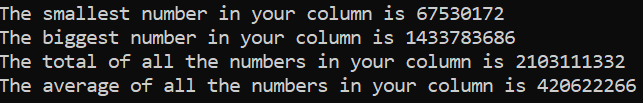
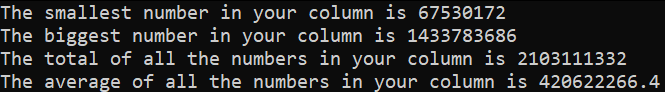
switched to using floating point division for avg

diff --git a/MinMaxNumber/MinMaxNumber.cpp b/MinMaxNumber/MinMaxNumber.cpp
@@ -93,13 +93,14 @@ int main(int argc, char** argv)
     // Find smallest and biggest numbers in numList
     int64_t smallest = INT64_MAX;
     int64_t biggest = NULL;
+    int64_t sum = NULL;
     for (std::vector<int64_t>::size_type i = 0; i < numList.size(); i++)
     {
         smallest = std::min(smallest, numList[i]);
         biggest = std::max(biggest, numList[i]);
+        sum += numList[i];
     }
-    int64_t sum = std::accumulate(numList.begin(), numList.end(), (int64_t)0);
-    std::vector<int64_t>::size_type avg = sum / numList.size();
+    double avg = (double)sum / numList.size();
 
     // Output results
     if (!smallest && !biggest && !avg && !sum)
@@ -118,7 +119,14 @@ int main(int argc, char** argv)
     std::cout << "The total of all the numbers in your column is ";
     std::cout << sum << '\n';
     std::cout << "The average of all the numbers in your column is ";
-    std::cout << avg << '\n';
+    
+    std::string strAvg = std::to_string(avg);
+    strAvg = strAvg.substr(0, strAvg.find_last_not_of('0')+1);
+    if(strAvg.find('.') == strAvg.size()-1)
+    {
+        strAvg = strAvg.substr(0, strAvg.size()-1);
+    }
+    std::cout << strAvg << '\n';
 
     return EXIT_SUCCESS;
 }

diff --git a/README.md b/README.md
@@ -108,28 +108,23 @@ Back in the main file we call the *SQLConnect* function, which is a boolean func
 
 Back in main we create a vector to store the list of numbers returned by SQLHandler function `FetchColumns`. The numbers in the provided column is accessed by issuing the SQL statment: `SELECT column FROM table`, where column and table are replaced with the actual names. This query is issued by the `executeQuery` MySQL Connector function. Once all the numbers in the specified column have been recorded they are returned to main.
 
-#### 4 (i, ii).
+#### 4 (i, ii, iii, iv).
 ```cpp
 int64_t smallest = INT64_MAX;
 int64_t biggest = NULL;
+int64_t sum = NULL;
 for (int i = 0; i < numList.size(); i++)
 {
     smallest = std::min(smallest, numList[i]);
     biggest = std::max(biggest, numList[i]);
+    sum += numList[i];
 }
+double avg = (double)sum / numList.size();
 ```
-To find the smallest and biggest numbers in the column we make use of the built in C++ functions `min` and `max`. Counterintuitively, we initally set the `smallest` variable to the biggest it can possibly be and `biggest` variable to the smallest it can possibly be. This is so that the smallest number in our actual list of numbers will definatally be smaller than the inital value of `smallest` and that the biggest number will always be bigger than the inital value of `biggest`. Next we loop through the numbers in our list compairing the current number to the previous smallest and biggest numbers. By the end of this looping we will be left with the smallest and biggest numbers in our column.
-
-#### 4 (iii, iv).
-```cpp
-int64_t sum = std::accumulate(numList.begin(), numList.end(), (int64_t)0);
-int64_t avg = sum / numList.size();
-```
-
-For this we use the C++ accumulate function which will sum up all the numbers in our list and return the result into our `sum` integer. Finally we find the average by dividing the sum of our numbers by the size of the list.
+To find the smallest and biggest numbers in the column we make use of the built in C++ functions `min` and `max`. Counterintuitively, we initally set the `smallest` variable to the biggest it can possibly be and `biggest` variable to the smallest it can possibly be. This is so that the smallest number in our actual list of numbers will definatally be smaller than the inital value of `smallest` and that the biggest number will always be bigger than the inital value of `biggest`. Next we loop through the numbers in our list compairing the current number to the previous smallest and biggest numbers. By the end of this looping we will be left with the smallest and biggest numbers in our column. In the same loop we add all our numbers together using the addition assignment operator. Finally we find the average by divinding the sum of our numbers by the size of the list. We cast `sum` to a `double` here in order to do floating point division instead of interger division.
 
 #### 4 (v).
-First of all, if all our previous calculations are zero then we display a warning about it, it may be that a column that does not contain integers has been provided by mistake. One by one we output the results of the calculations we performed earlier with an accompanying description. The output pictured below is what you recive when you run the program on the following table of Countries using the `Population` column:
+First of all, if all our previous calculations are zero then we display a warning about it, it may be that a column that does not contain integers has been provided by mistake. Next we remove trailing zeros from the average. Finally we output the results of the calculations we performed earlier with an accompanying description. The output pictured below is what you recive when you run the program on the following table of Countries using the `Population` column:
 
 | Country Name   | Population    |
 | -------------- | ------------- |
